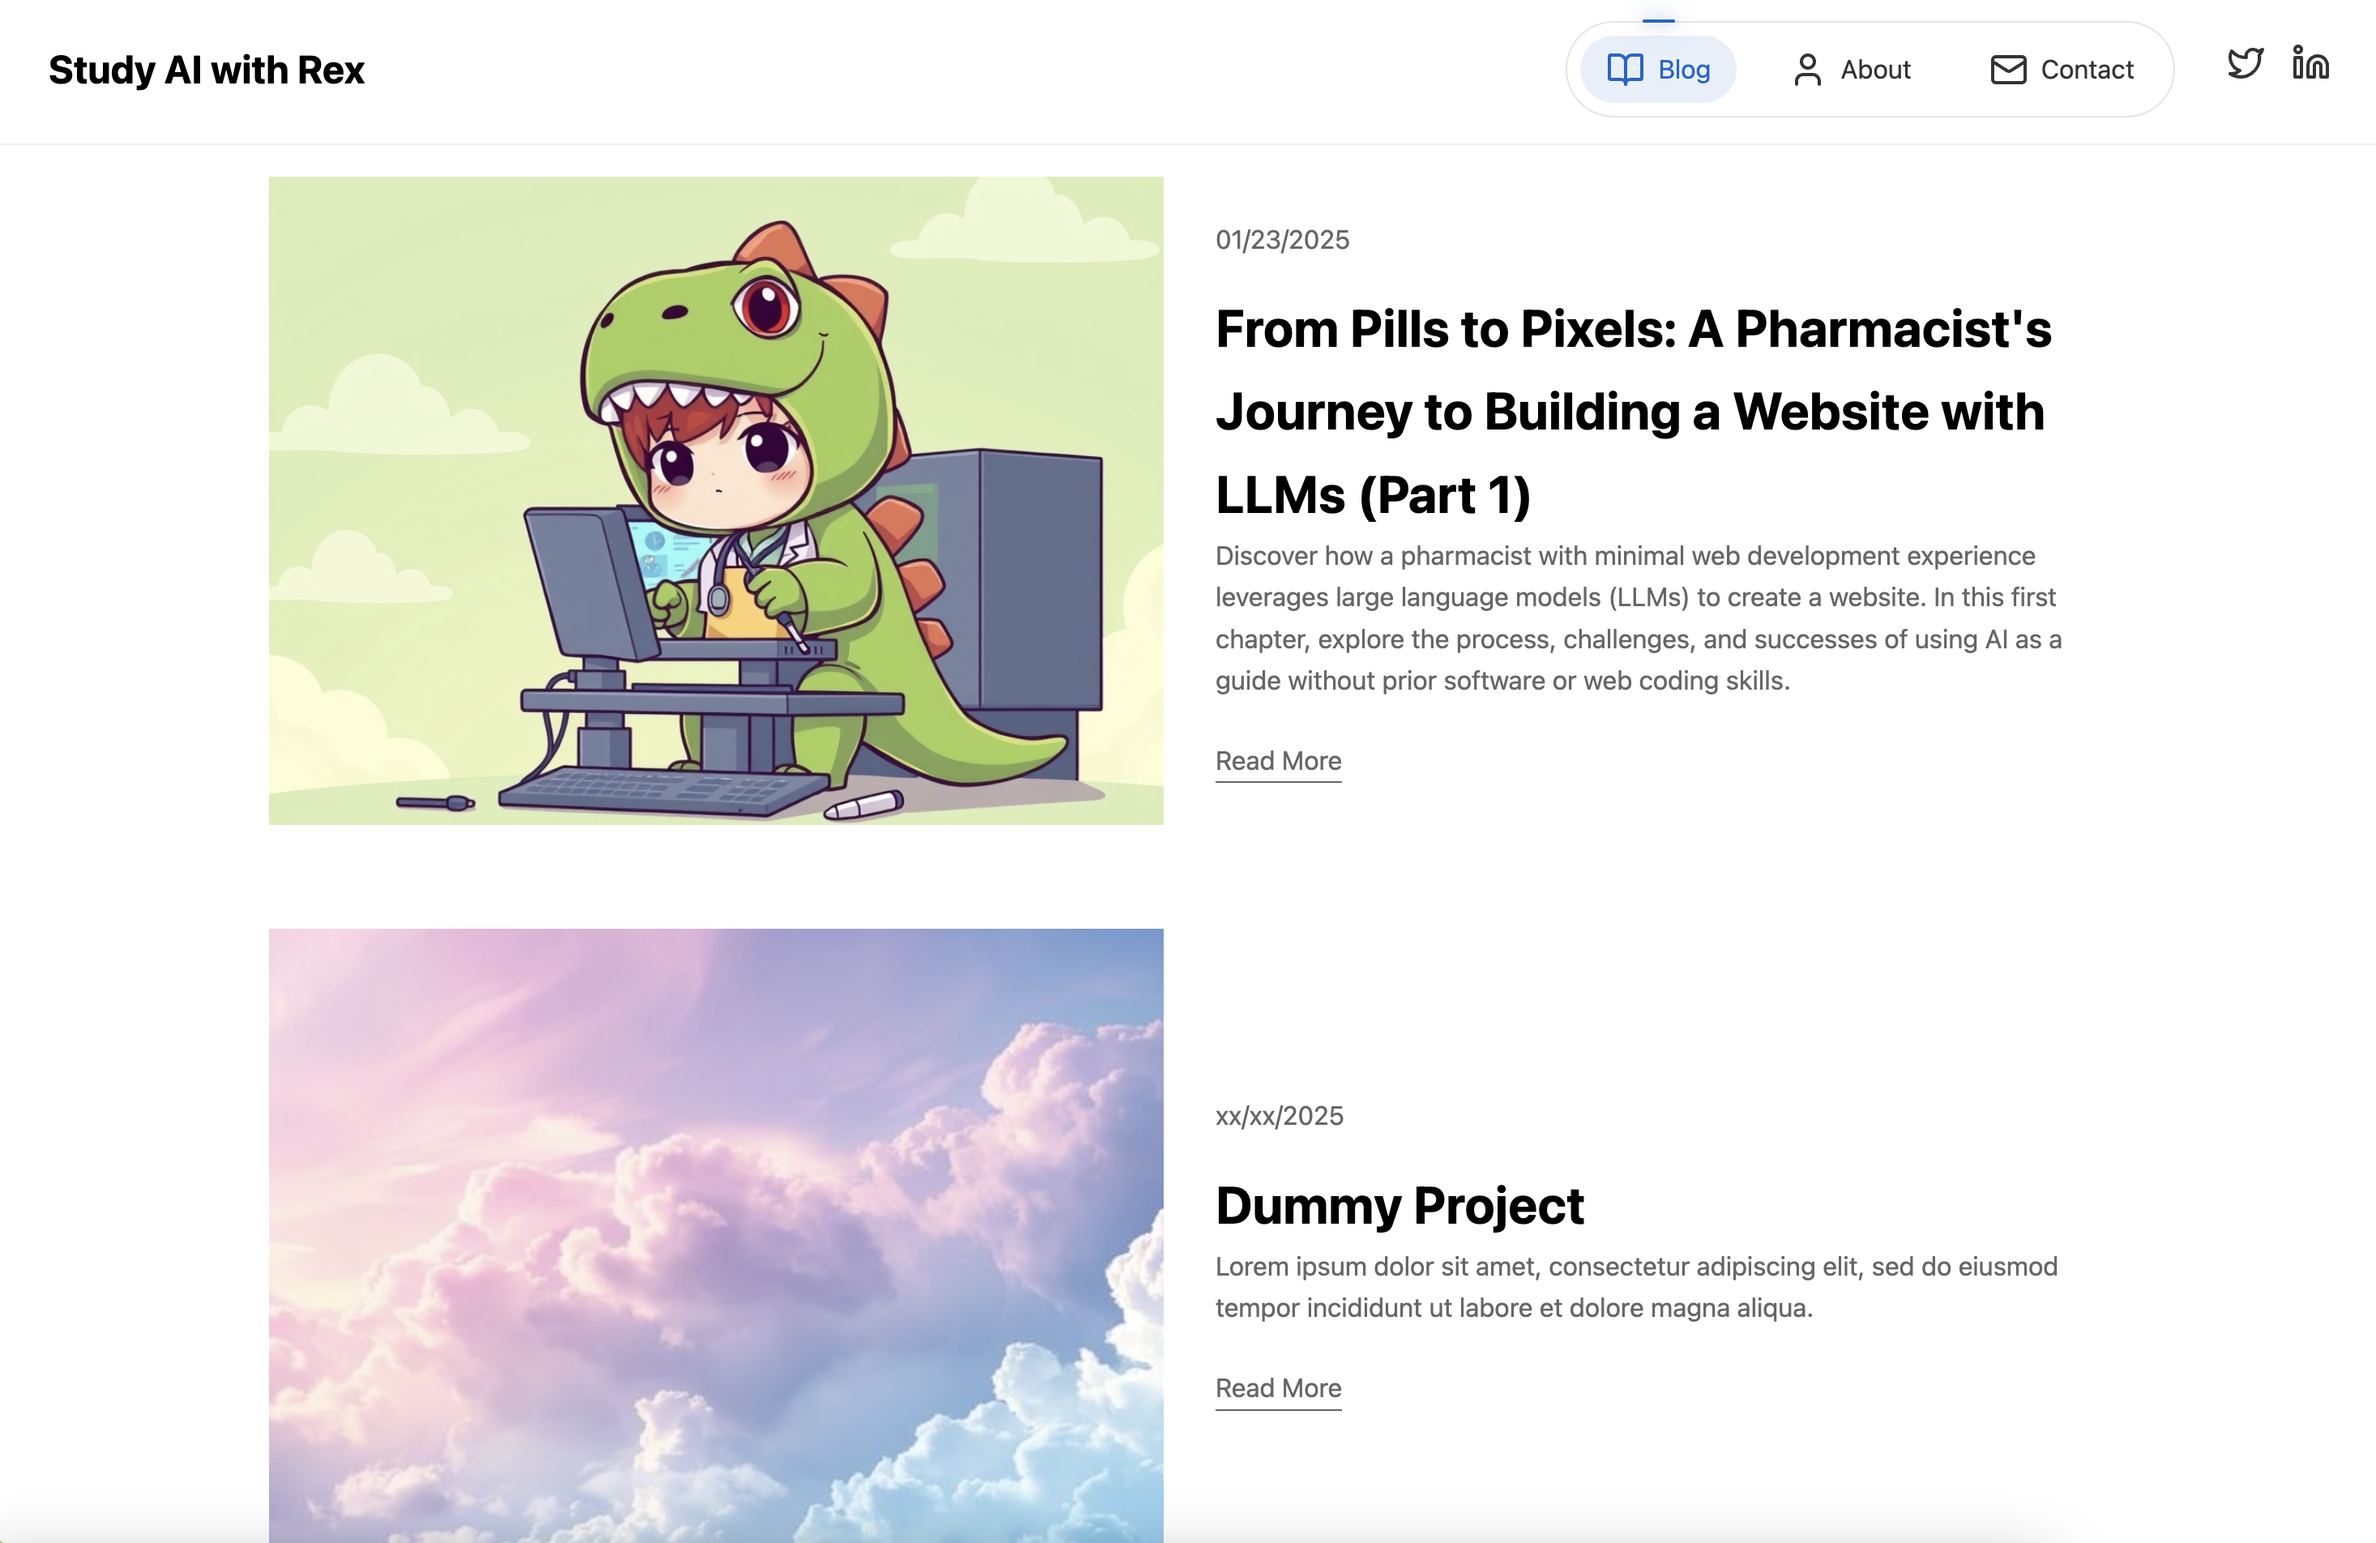
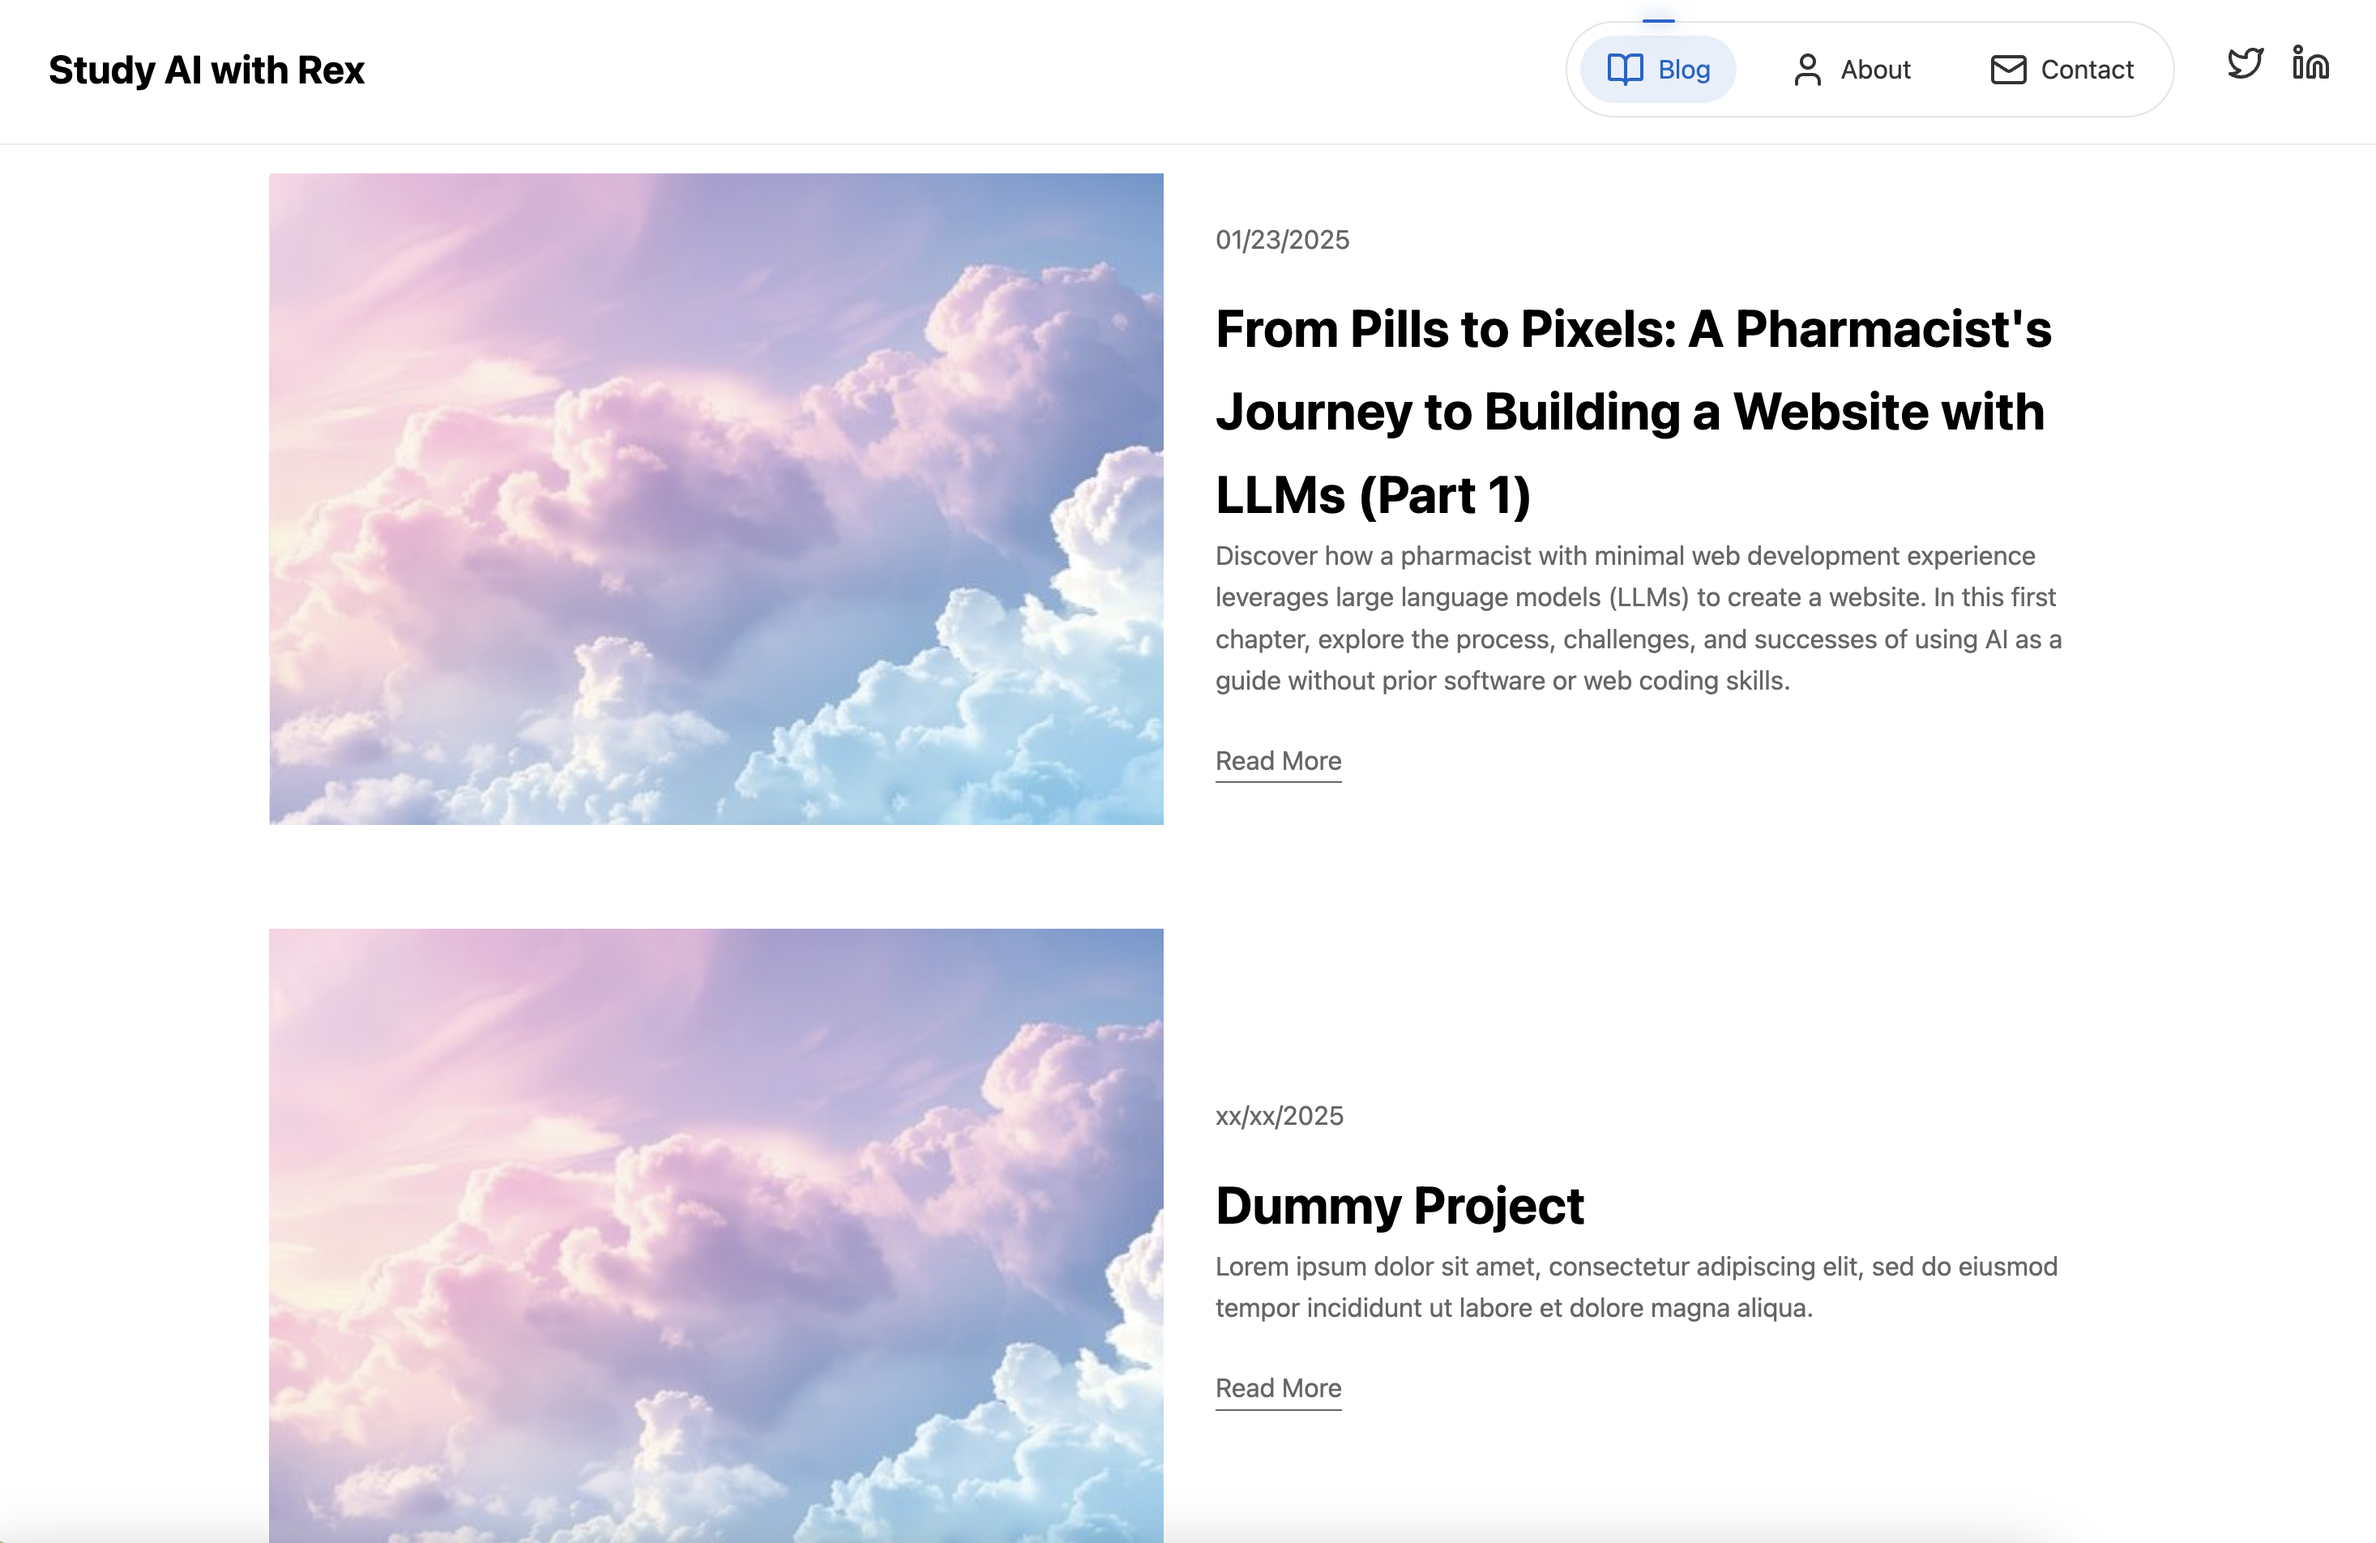
fix: logic blog1

Changed region(s): [[0.0931, 0.093, 0.4966, 0.5578]]

diff --git a/posts/from-pills-to-pixels-1.md b/posts/from-pills-to-pixels-1.md
@@ -68,7 +68,7 @@ I simply sat back, sipped my tea, and watched the magic happen. In less than 30 
 
 <div class="image-container">
     <img src="../assets/images/from-pills-to-pixels-1/end-1.png" alt="Final website design">
-    <p class="image-caption">The final result after 30 minutes of AI-assisted development</p>
+    <p class="image-caption">Squarespace template that inspired the two-column layout</p>
 </div>
 
 ## The Final Touch: Adding Images to Spice Things Up
@@ -83,10 +83,16 @@ But after a few tries, I got this result:
 
 <div class="image-container">
     <img src="../assets/images/from-pills-to-pixels-1/img-gen.png" alt="Final website design">
-    <p class="image-caption">The final result after 30 minutes of AI-assisted development</p>
+    <p class="image-caption">Image generation is so good these days!</p>
 </div>
 
 As for the background image in the post, well, I tried generating one with Flux, but let's just say the results weren't exactly wallpaper-worthy. So, I took the easy route and grabbed a beautiful image from [Unsplash](https://unsplash.com/), a website I often use for stunning, free-to-use photos. They have got a ton of beautiful picture that can be used as wallpaper or background.
+
+And here is my final result:
+<div class="image-container">
+    <img src="../assets/images/from-pills-to-pixels-1/end-2.png" alt="Final website design">
+    <p class="image-caption">The final result after 30 minutes of AI-assisted development</p>
+</div>
 
 
 ## What's Next?
